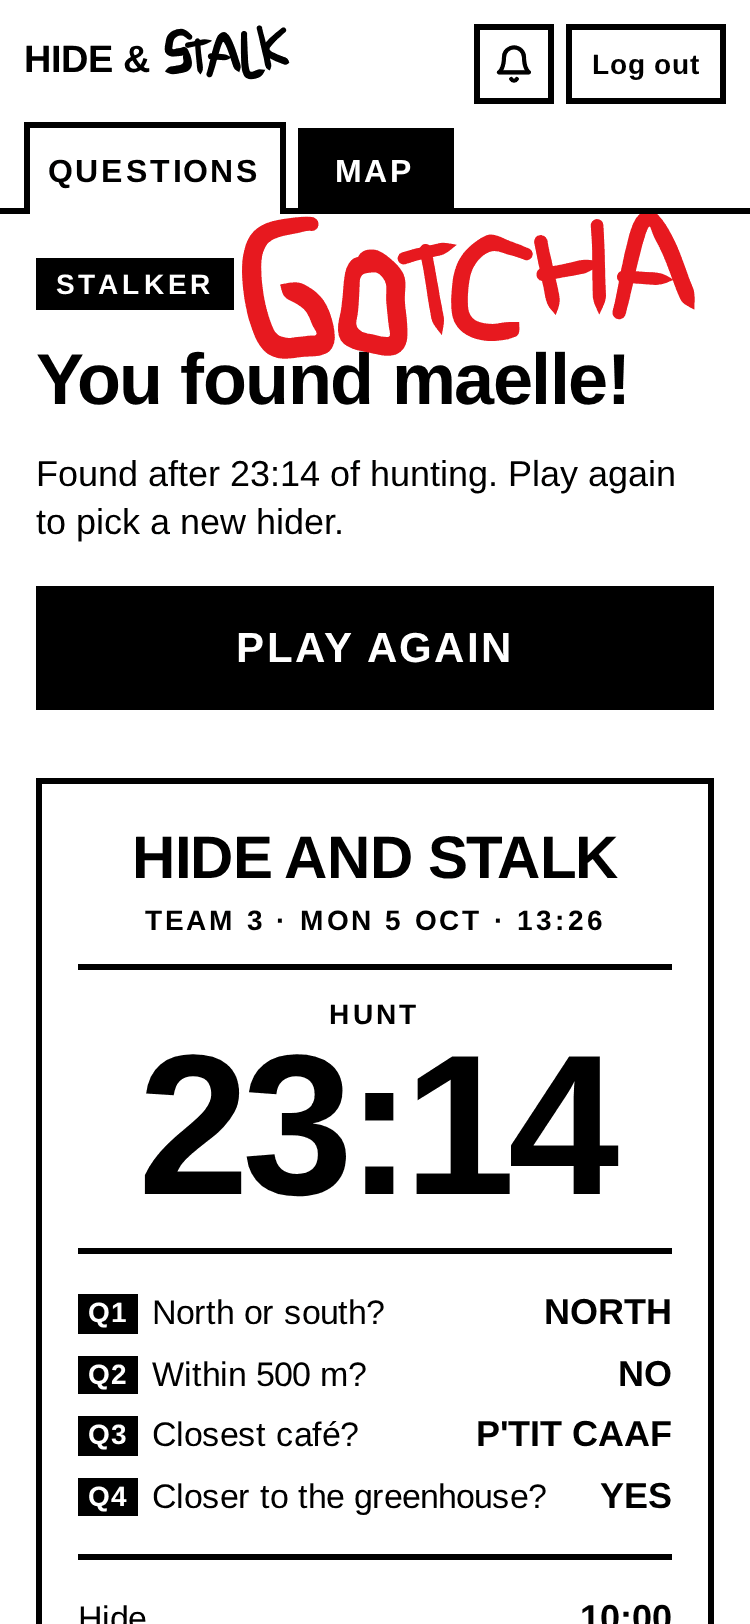
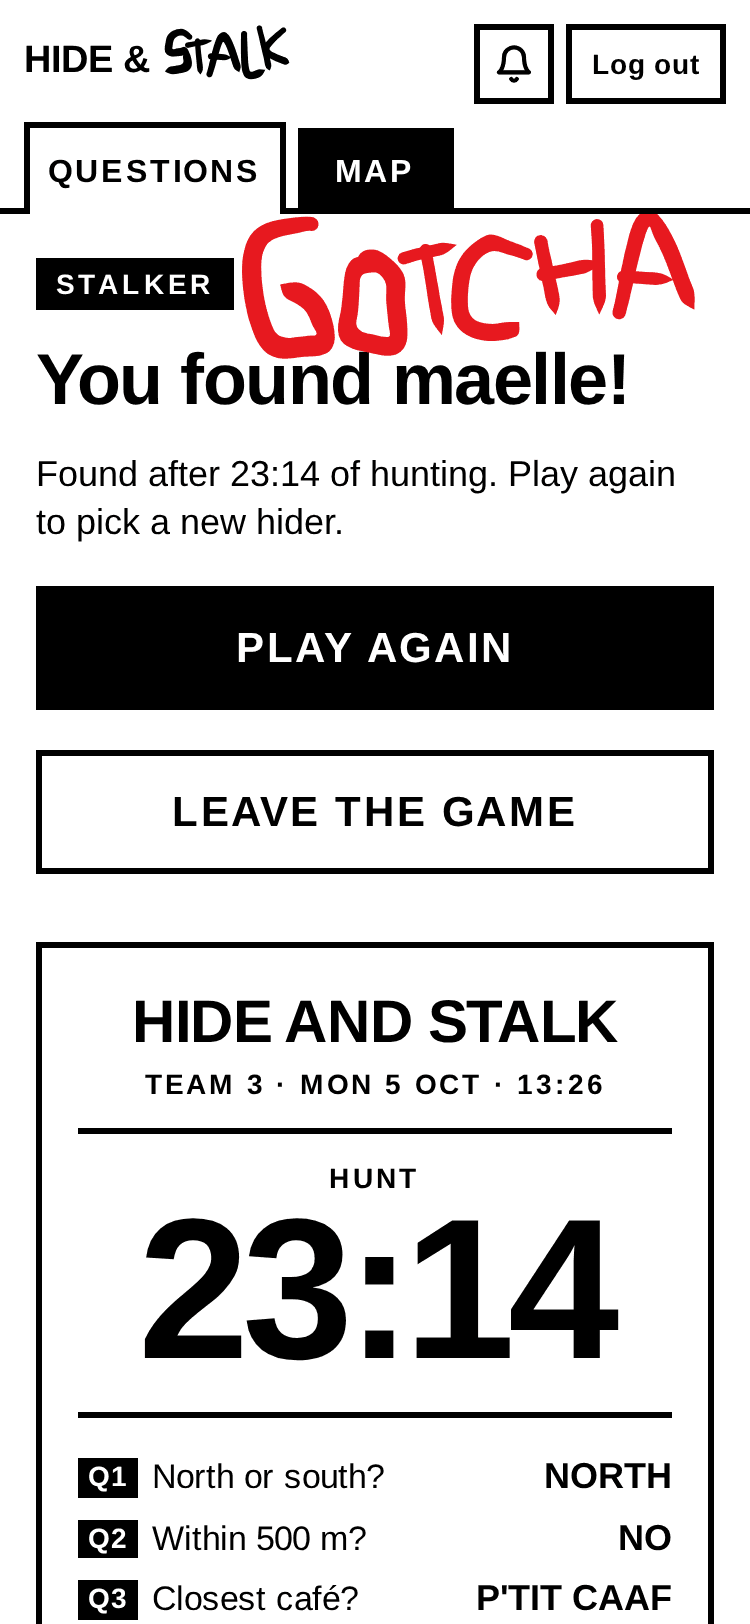
How to play: the campus edge, leaving, what stalkers see
Rule 1's fine print: while you hide, the red line on your map is the edge
of campus. The FAQ asks what players wonder (can't the stalkers just see
the hider?) and points at Leave the game; the rulings say the same. The
end screens are re-shot with the new button.

Claude-Session: https://claude.ai/code/session_019daRXxJh9MFrrNRpeLucZZ

Changed region(s): [[0.0307, 0.4618, 0.9507, 1.0]]

diff --git a/src/how-to-play/index.html b/src/how-to-play/index.html
@@ -411,9 +411,9 @@
                         </li>
                         <li class="step" aria-label="Step 10 of 10">
                             <div class="step-head"><span class="badge">Hider's phone</span><span class="count">10 / 10</span></div>
-                            <p class="caption">Nobody found them in 30 minutes? The hider wins. Then Play again: someone else hides.</p>
+                            <p class="caption">Nobody found them in 30 minutes? The hider wins. Then Play again with someone else hiding, or Leave the game.</p>
                             <div class="phone">
-                                <img src="img/10-win.png" width="750" height="1624" loading="lazy" alt="Hider's phone: How about that. You win! Nobody found you in 6 questions (30:00). A Play again button." />
+                                <img src="img/10-win.png" width="750" height="1624" loading="lazy" alt="Hider's phone: How about that. You win! Nobody found you in 6 questions (30:00). Play again and Leave the game buttons." />
                             </div>
                         </li>
                     </ol>
@@ -434,7 +434,7 @@
                         <details>
                             <summary><span class="n"></span><strong data-ink="underline">Hide in plain sight.</strong> On campus, within 20&nbsp;m of a path, where people on it could see you.</summary>
                             <ul class="fine">
-                                <li>Campus is what the app's map shows. Everything past its edge is out: Place Sainte-Foy, Place Laurier, the streets across the boulevards.</li>
+                                <li>While you hide, the red line on your map is the edge of campus. Past it is out: Place Sainte-Foy, Place Laurier, the streets across the boulevards.</li>
                                 <li>A path is anywhere people walk: a sidewalk, a trail, a plaza, a parking lot, a hallway, an atrium.</li>
                                 <li>In plain sight: someone walking along that path would see you at some point. Sit, stand, blend into a crowd. Not inside, under or behind anything that hides you: a bush, a closed door, a stall, a coat over your head.</li>
                                 <li>Public places only: anywhere you can walk into without a key, a card or a ticket. Not classrooms, offices, labs, washrooms, residences, rooftops or construction sites. A locked building is not public.</li>
@@ -529,7 +529,7 @@
                     <li>
                         <details>
                             <summary><strong>Can I leave after one round?</strong></summary>
-                            <p class="answer">Yes. Tell your team and an organizer, so the app doesn't pick you to hide next.</p>
+                            <p class="answer">Yes. When the round ends, tap Leave the game. It takes you off your team, so the app won't pick you to hide next.</p>
                         </details>
                     </li>
                     <li>
@@ -552,8 +552,8 @@
                     </li>
                     <li>
                         <details>
-                            <summary><strong>Who sees where I am?</strong></summary>
-                            <p class="answer">Your team and the organizers, while the app is open. During a round the stalkers never see the hider, only the answers. Log out and your position is cleared.</p>
+                            <summary><strong>Can't the stalkers just see the hider on the map?</strong></summary>
+                            <p class="answer">No. The stalkers see each other, never the hider: all they get are the answers. The hider sees the stalkers coming.</p>
                         </details>
                     </li>
                     <li>

diff --git a/design/game-design/ulaval-version/rules.md b/design/game-design/ulaval-version/rules.md
@@ -43,7 +43,7 @@ Most important first. The two the app underlines in red: 1 and 2.
 What a player sees when they tap a rule on the how-to-play page.
 
 **1. Hide in plain sight.**
-- Campus is what the app's map shows. Everything past its edge is out: Place Sainte-Foy, Place Laurier, the streets across the boulevards.
+- While you hide, the red line on your map is the edge of campus. Past it is out: Place Sainte-Foy, Place Laurier, the streets across the boulevards.
 - A path is anywhere people walk: a sidewalk, a trail, a plaza, a parking lot, a hallway, an atrium.
 - In plain sight: someone walking along that path would see you at some point. Sit, stand, blend into a crowd. Not inside, under or behind anything that hides you: a bush, a closed door, a stall, a coat over your head.
 - Public places only: anywhere you can walk into without a key, a card or a ticket. Not classrooms, offices, labs, washrooms, residences, rooftops or construction sites. A locked building is not public.
@@ -96,7 +96,7 @@ What a player sees when they tap a rule on the how-to-play page.
 
 - **A rule broken by mistake** (the hider 30 m from a path, an answer that was wrong): fix it and keep playing. If it decided the round, the round doesn't count for longest hide; play it again.
 - **Pause.** From the admin board: an emergency, a washroom, a lost player. Players can't pause.
-- **Someone leaves.** Take them off the team on the admin board, so Play again never picks them to hide.
+- **Someone leaves.** At the end of a round they tap Leave the game: off their team, logged out, and left out of Make teams until they log in again. Mid-round the app refuses; if they really have to go, reset their team on the admin board and take them off it.
 - **Ties for longest hide.** Every hider who lasted the full 30:00 shares it. (The results list puts the first one to finish on top; that order means nothing.)
 - **Questions the app can't settle** (is this a path? is this a basement?): the organizer's call, and the call holds for everyone the rest of the day. Note it here afterwards.
 
